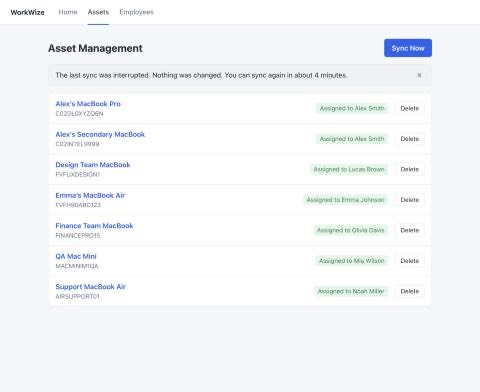
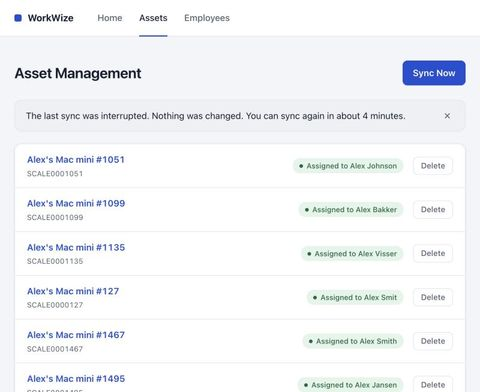
Pictures: the last 7 old-look pictures retaken; before pictures captioned; 93 save points at submission

diff --git a/docs/TEST-LOG.md b/docs/TEST-LOG.md
@@ -129,7 +129,7 @@ Real Jamf exports are messier than the 7-laptop mock. Each case below was put th
 | O18 | **Line breaks or tabs inside a name.** `Finance⏎Team⇥MacBook` | Stored; shown on one line | Stored exactly as sent. On screen, browsers show line breaks and tabs as spaces; not checked with a screenshot | Pass | Right (screen part not separately checked) | – | – |
 | O19 | **Jamf promises more laptops than it sends.** `totalCount` 10, 7 sent | Rejected as incomplete (correct by design, re-confirmed) | Rejected: "Jamf list is incomplete: expected 10 devices, got 7." Nothing changed | Pass | Right | – | – |
 
-**Emoji, right-to-left text and a name that looks like web code (O7–O9),** shown as plain text. The names are made up. *Taken before the visual redesign.*
+**Emoji, right-to-left text and a name that looks like web code (O7–O9),** shown as plain text. The names are made up.
 
 ![Emoji, right-to-left and web-code names shown as text](screenshots/odd-emoji-rtl-html-shown-as-text.jpg)
 
@@ -168,7 +168,7 @@ Real Jamf exports are messier than the 7-laptop mock. Each case below was put th
 
 **Where the limit is:** a sync through the website breaks at **about 12,000–13,000 laptops** (a Jamf file of about 15–16 MB), because the backend's **128 MB memory limit** runs out. The **30-second time limit is never reached** first: 12,000 laptops take about 6–8 seconds, so by time alone the limit would be around 50,000. The command line has the same 128 MB limit (not tested above 10,000). Below 12,000 everything works, so a mid-size customer with 1,000–5,000 laptops is well under it.
 
-**5,000 laptops.** The list loads in about a second; the sync message stays short. *Taken before the visual redesign.*
+**5,000 laptops.** The list loads in about a second; the sync message stays short.
 
 ![5,000 laptops](screenshots/scale-5000-laptops.jpg)
 
@@ -226,6 +226,8 @@ A visual change only, approved by Muhammad: wording, behaviour and statuses stay
 | New: on phones, the ⓘ and Delete buttons in lists have a tap area of at least 44 × 44 px | Pass (2 tests); measured in a real browser at phone width: the buttons look the same (24×16 and 69×32), taps 21 px from the centre land, 25 px don't | A 30 px tap area: caught by both tests |
 
 **Design check:** [Impeccable](https://github.com/pbakaus/impeccable)'s detector found nothing before or after, on the website source and on the four live pages at desktop and phone width (it was first shown to flag a deliberately bad page). Its audit found the small tap areas (fixed above), a few hard-coded colours (replaced with the colour tokens) and no reduced-motion setting (added).
+
+**Pictures:** all 15 pictures that show the app as it is now were retaken with the new look, by re-creating the same situation with WorkWize's mock data (the crash and error ones with a stopped database, a frozen backend and a real out-of-memory crash). The 6 "before" pictures stay as they were: they show the earlier behaviour and look.
 
 ## Other things the tests cover
 
@@ -290,41 +292,41 @@ Each fix re-runs the original failing case. "Guided by" is the principle the fix
 
 ### Before and after, on screen
 
-*Taken before the visual redesign (16 Oct 2026), so they show the old look; they are kept as the evidence of each fix. One exception: the F3, F7, F8 "after" picture was retaken with the new look.*
+*The "before" pictures show the earlier behaviour and look, as found in testing. The "after" pictures were retaken with the current look on 16 Oct 2026 by re-creating the same situation (mock data, a stopped database, a frozen backend, a real crash on a 25,000-laptop list).*
 
 **F2 + F12, database down.** Raw database errors became one plain message per place.
 
-| Before | After |
+| Before (shows the earlier behaviour and look) | After |
 |---|---|
 | ![Before: F2 + F12, database down](screenshots/f12-before-raw-database-error.jpg) | ![After: F2 + F12, database down](screenshots/f12-after-plain-message.jpg) |
 
 **F3, F7, F8, values Jamf sent.** Numbers sent as text were shown as "Not provided by Jamf"; now they're read (16 GB, 10 cores), and values WorkWize can't use show the new label with what Jamf sent and its ⓘ.
 
-| Before | After |
+| Before (shows the earlier behaviour and look) | After |
 |---|---|
 | ![Before: F3, F7, F8, values Jamf sent](screenshots/f3-before-numbers-as-text-not-provided.jpg) | ![After: F3, F7, F8, values Jamf sent](screenshots/f3-f7-f8-after-couldnt-read-label.jpg) |
 
 **F13, a frozen backend.** "Loading…" with no hint, then the same page with the line that appears after 15 seconds.
 
-| Before | After |
+| Before (shows the earlier behaviour and look) | After |
 |---|---|
 | ![Before: F13, a frozen backend](screenshots/f13-before-loading-no-hint.jpg) | ![After: F13, a frozen backend](screenshots/f13-after-taking-longer-line.jpg) |
 
 **F10, after a crash.** "A sync is already running" (untrue) became an honest message with when to try again.
 
-| Before | After |
+| Before (shows the earlier behaviour and look) | After |
 |---|---|
 | ![Before: F10, after a crash](screenshots/f10-before-already-running.jpg) | ![After: F10, after a crash](screenshots/f10-after-interrupted.jpg) |
 
 **F11, a crash during a sync.** "Couldn't reach WorkWize" (untrue) became "Something went wrong during the sync. Nothing was changed."
 
-| Before | After |
+| Before (shows the earlier behaviour and look) | After |
 |---|---|
 | ![Before: F11, a crash during a sync](screenshots/f11-before-couldnt-reach.jpg) | ![After: F11, a crash during a sync](screenshots/f11-after-something-went-wrong.jpg) |
 
-**F16, a very long owner name.** The label ran off the page and covered other names; now it wraps inside its row. (After: the long name was put into the page in the browser to measure the layout; no data changed.)
+**F16, a very long owner name.** The label ran off the page and covered other names; now it wraps inside its row. (After: a 299-character owner name sent through a Jamf list, which is possible since F1.)
 
-| Before | After |
+| Before (shows the earlier behaviour and look) | After |
 |---|---|
 | ![Before: F16, a very long owner name](screenshots/f16-before-label-covers-names.jpg) | ![After: F16, a very long owner name](screenshots/f16-after-label-wraps.jpg) |
 

diff --git a/docs/CHANGELOG.md b/docs/CHANGELOG.md
@@ -11,6 +11,11 @@ What was built, step by step. Newest at the top.
 - Commit: <hash>
 -->
 
+## 2026-10-16: Every current picture in the new look
+- Retook the last 7 pictures that still showed the old look, by re-creating the same situation with WorkWize's mock data: the odd names, the very long owner name (now sent through a Jamf list), 5,000 laptops, a stopped database, a frozen backend, and a real out-of-memory crash on 25,000 laptops followed by the "interrupted" message after a minute. Same file names. All 15 current pictures now show the new look; the 6 true "before" pictures stay and are captioned "shows the earlier behaviour and look". The GitHub About box now has a description and topics. HOW-WE-BUILT-THIS: 93 save points at submission.
+- Why: a reviewer should see the app as it is, and the before pictures should say what they are. [Our addition]
+- Commit: (this save point)
+
 ## 2026-10-16: Redesign 6: docs
 - Retook only the pictures whose screen changed (8, same file names, WorkWize's mock data); the testing-evidence pictures stay, marked "taken before the visual redesign". [DECISIONS](DECISIONS.md) has a row for the visual design (Muhammad's addition) and [DECISION-RECORDS](DECISION-RECORDS.md) a "Visual design" note with the three directions and his choice. [TEST-LOG](TEST-LOG.md) has a "Visual redesign" section. HOW-WE-BUILT-THIS says Impeccable was used as a design check, in its lighter mode. Numbers match the build journal: 133 + 112 tests, 77 deliberate breaks, 127 catches, 47 Claude Code mistakes, 92 save points at submission. A limitations row for "no dark mode".
 - Why: the docs must show the app as it is. [Our addition]

diff --git a/docs/HOW-WE-BUILT-THIS.md b/docs/HOW-WE-BUILT-THIS.md
@@ -53,7 +53,7 @@ flowchart LR
 
 | | |
 |---|---|
-| Save points | 92 at submission (73 before these documents were added) |
+| Save points | 93 at submission (73 before these documents were added) |
 | Automatic tests | 133 backend, 112 website |
 | Deliberate breaks | 77, all caught by a test |
 | Catches logged | 127: Claude Code 93 (41 of them its own mistakes), claude.ai 23, me 10, shared 1 |
@@ -81,9 +81,9 @@ Claude Code's number is probably high because it was closest to the code, and th
 
 - **An audit before building (me).** I asked for a read-only check of the setup before any code was written. It found four problems, including a rule that could have silently hidden real code from the repo.
 
-The long-name catch, before and after the fix (taken before the visual redesign):
+The long-name catch, before and after the fix:
 
-| Before the fix | After |
+| Before the fix (shows the earlier behaviour and look) | After |
 |---|---|
 | ![A very long owner name covers other names](screenshots/f16-before-label-covers-names.jpg) | ![The label wraps inside its row](screenshots/f16-after-label-wraps.jpg) |
 

diff --git a/README.md b/README.md
@@ -80,9 +80,9 @@ The seven features that are designed but not built, each with its decision and p
 
 ![Jamf sent a value WorkWize couldn't read](docs/screenshots/f3-f7-f8-after-couldnt-read-label.jpg)
 
-**When something breaks, the message is true and says what to do.** Before and after, from testing (taken before the visual redesign):
+**When something breaks, the message is true and says what to do.** Before and after, from testing:
 
-| Before | After |
+| Before (shows the earlier behaviour and look) | After |
 |---|---|
 | ![Raw database error](docs/screenshots/f12-before-raw-database-error.jpg) | ![Plain message](docs/screenshots/f12-after-plain-message.jpg) |
 | ![Already running (untrue)](docs/screenshots/f10-before-already-running.jpg) | ![The last sync was interrupted](docs/screenshots/f10-after-interrupted.jpg) |
